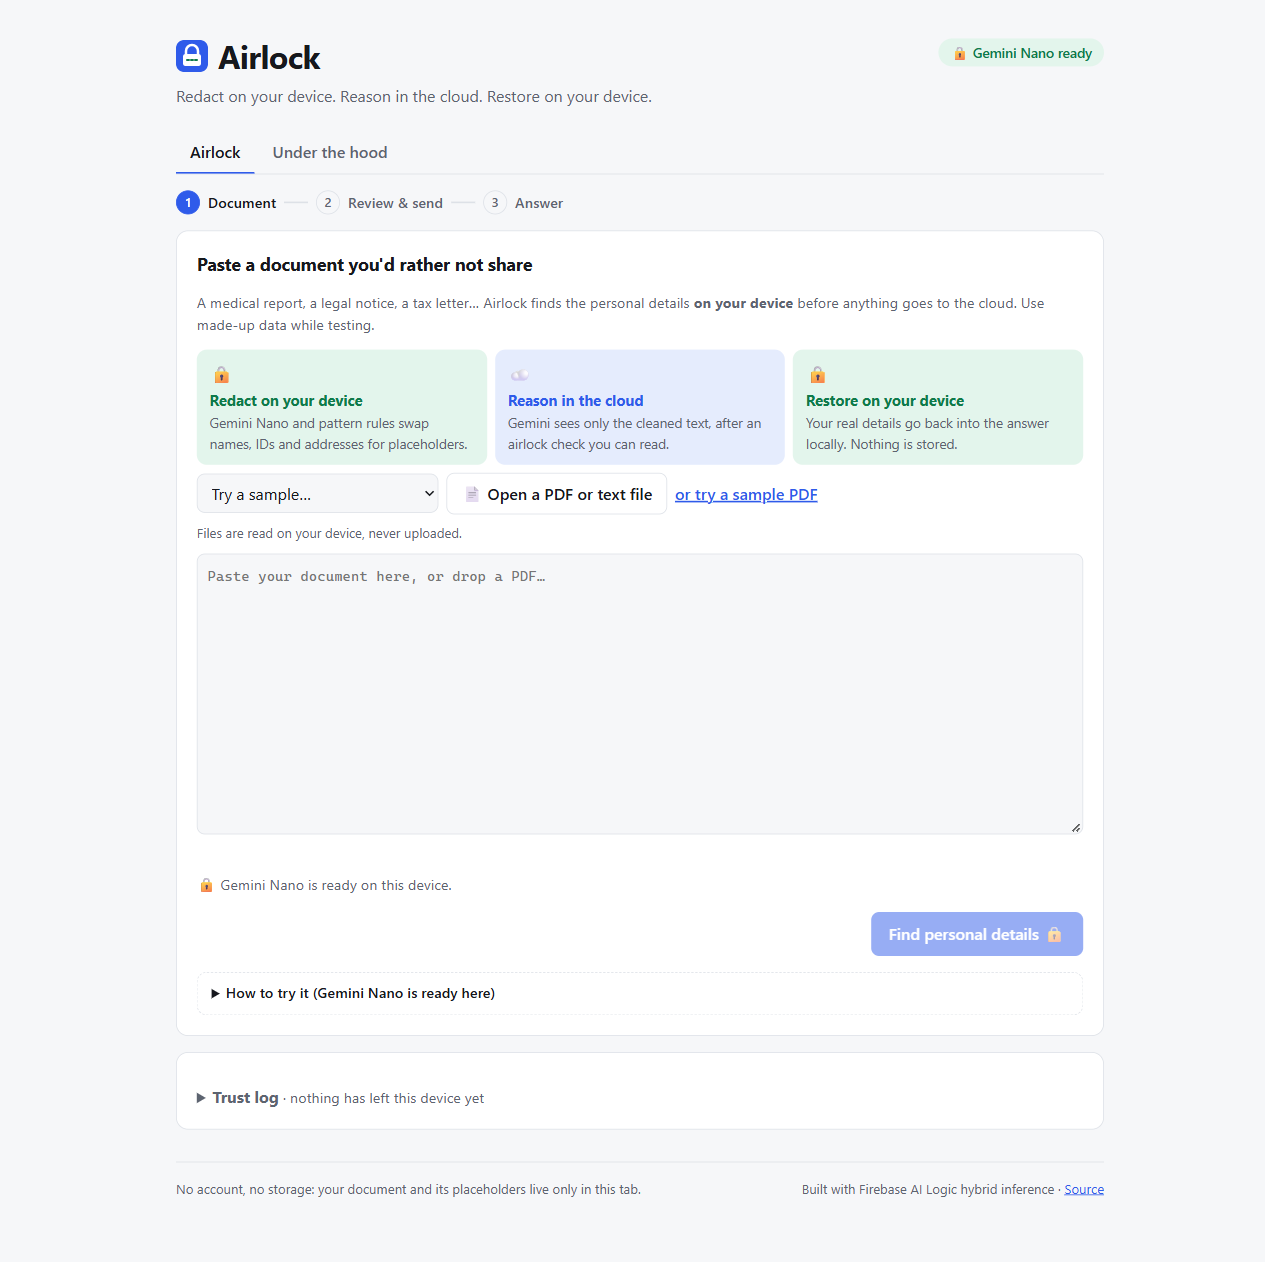
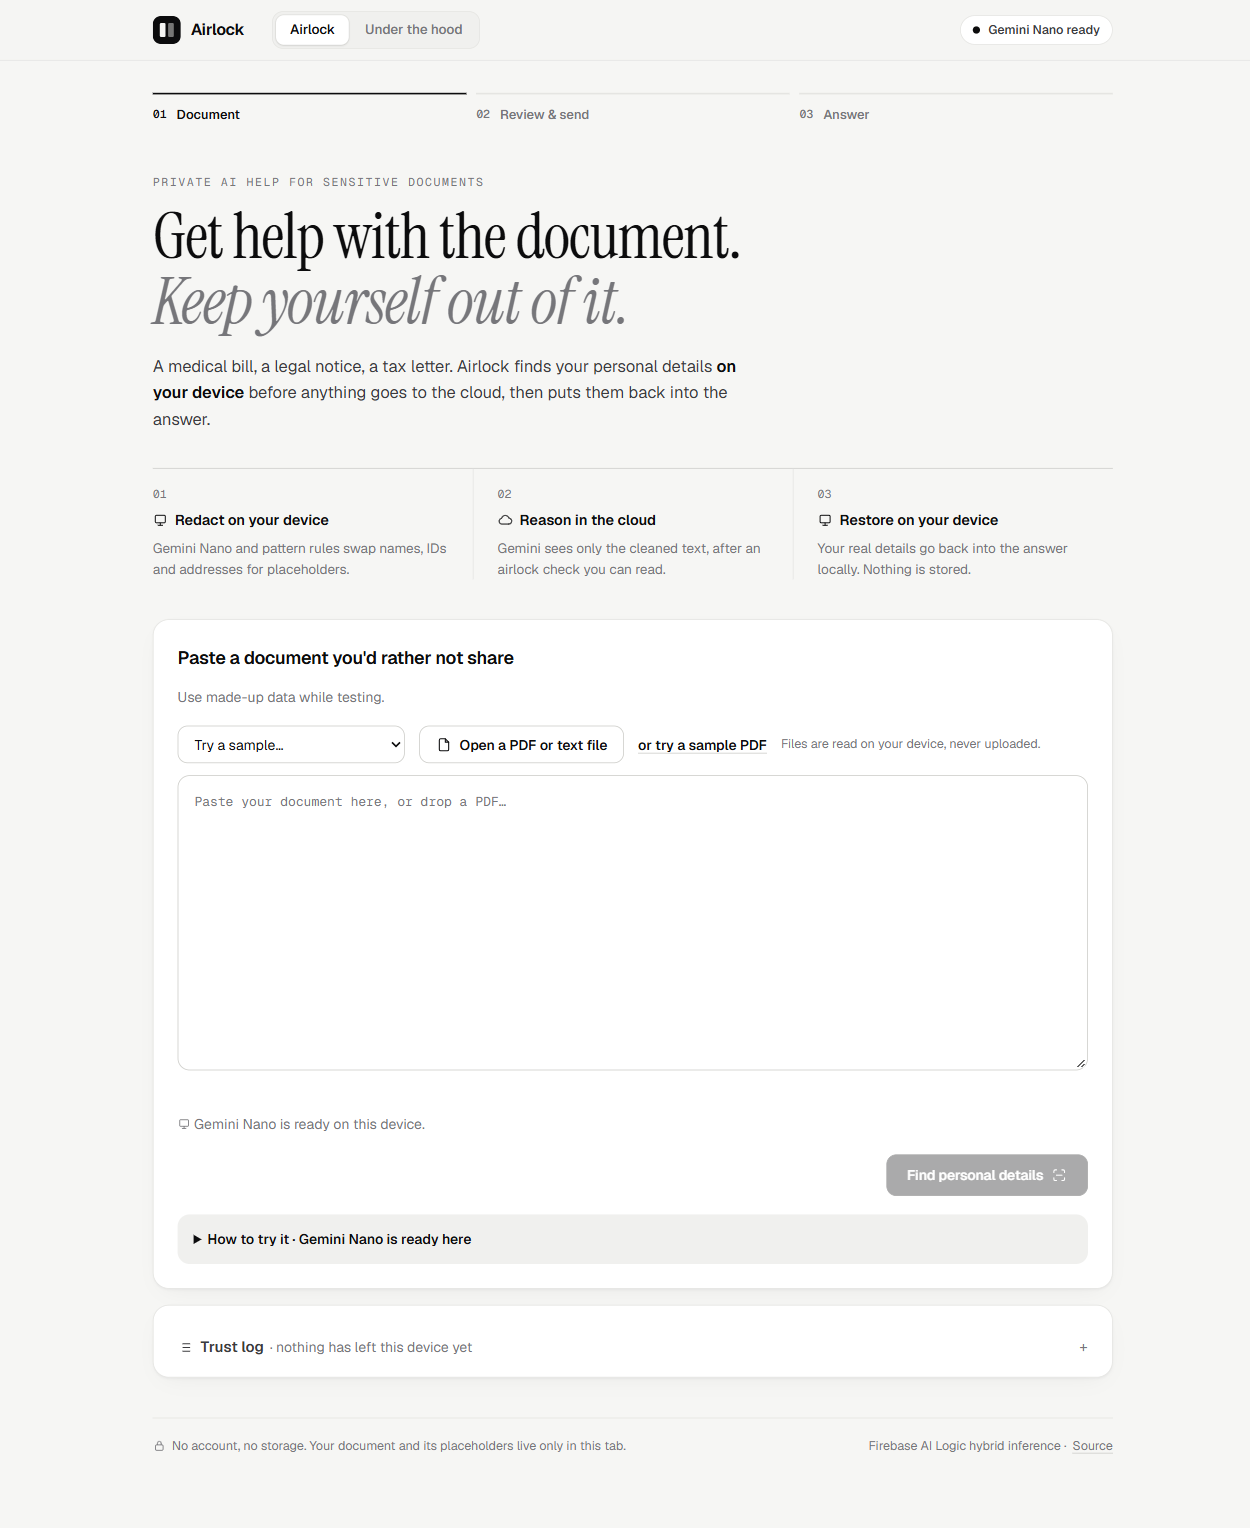
Polish the redesign on phones and refresh screenshots
- Stack full-width action buttons on small screens and keep button labels on one line.
- Compact, single-line progress labels on phones.
- Hide the "Gemini Nano" legend entry in safe mode, where Nano didn't run.
- Replace README/Devpost screenshots with the new monochrome UI.

diff --git a/src/styles.css b/src/styles.css
@@ -121,7 +121,7 @@ button {
   display: inline-flex; align-items: center; justify-content: center; gap: 8px;
   height: 38px; padding: 0 16px; border-radius: 10px; border: 1px solid var(--ink);
   background: var(--ink); color: var(--on-ink); font: inherit; font-size: 14px; font-weight: 550; letter-spacing: -0.005em;
-  cursor: pointer; transition: opacity 0.15s, background 0.15s, border-color 0.15s, transform 0.05s;
+  cursor: pointer; white-space: nowrap; transition: opacity 0.15s, background 0.15s, border-color 0.15s, transform 0.05s;
 }
 button:hover:not(:disabled) { opacity: 0.86; }
 button:active:not(:disabled) { transform: translateY(0.5px); }
@@ -301,6 +301,8 @@ tr.total td { font-weight: 600; color: var(--text); }
   .split { grid-template-columns: 1fr; }
   .card { padding: 18px; }
   .answer { padding: 4px 16px 8px; }
-  .actions { justify-content: stretch; }
-  .actions button { flex: 1; }
+  .actions { flex-direction: column-reverse; }
+  .actions button { width: 100%; }
+  .stepper { gap: 6px; }
+  .stepper li { gap: 6px; font-size: 11.5px; white-space: nowrap; }
 }

diff --git a/src/flow/AirlockFlow.tsx b/src/flow/AirlockFlow.tsx
@@ -328,7 +328,11 @@ export function AirlockFlow({ nano }: { nano: NanoState }) {
             </p>
           )}
           <p className="legend" aria-hidden="true">
-            <span><mark className="pii nano">Gemini Nano</mark></span>
+            {!safeMode && (
+              <span>
+                <mark className="pii nano">Gemini Nano</mark>
+              </span>
+            )}
             <span><mark className="pii pattern">Pattern rule</mark></span>
             <span><mark className="pii manual">Added by you</mark></span>
             <span><mark className="pii revealed">Revealed</mark></span>
